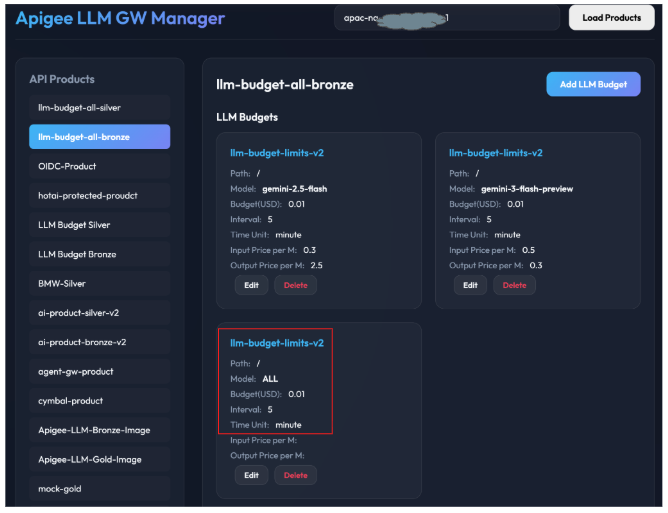
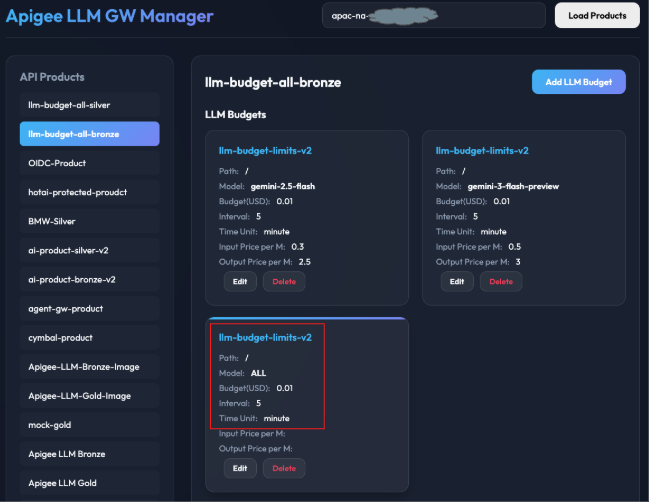
major change

diff --git a/apiproxy/resources/jsc/retrievePricingInfo.js b/apiproxy/resources/jsc/retrievePricingInfo.js
@@ -7,29 +7,29 @@
 //context.setVariable('ops_output_price', ops_output_price);
 
 
-// 1. JSON 문자열 데이터와 찾고자 하는 대상 모델명 가져오기
+// 1. Get JSON string data and target model name
 var jsonString = context.getVariable("verifyapikey.VA-VerifyAPIKey.__apigee_reserved_llm_operation_configs_attribute"); 
 var targetModel = context.getVariable("target_model");
 try {
-    // JSON 문자열을 자바스크립트 객체 배열로 변환
+    // Convert JSON string to JavaScript object array
     var dataArray = JSON.parse(jsonString);
     var targetAttributes = null;
-    // 2. 전체 배열을 순회하며 조건에 맞는 모델 찾기
+    // 2. Iterate through the array to find matching model
     for (var i = 0; i < dataArray.length; i++) {
         var item = dataArray[i];
         var operations = item.llmOperations;
         var isModelFound = false;
         
-        // llmOperations 배열 내부를 순회하며 model 값 비교
+        // Iterate through llmOperations array to match model
         if (operations && operations.length > 0) {
             for (var j = 0; j < operations.length; j++) {
                 if (operations[j].model === targetModel) {
                     isModelFound = true;
-                    break; // 내부 루프 탈출
+                    break; // Exit inner loop
                 }
             }
         }
-        // 원하는 모델을 찾았다면 해당 item의 attributes를 저장하고 외부 루프 탈출
+        // If matching model is found, save its attributes and exit outer loop
         if (isModelFound) {
             targetAttributes = item.attributes;
             break; 
@@ -37,13 +37,13 @@ try {
     }
     var inputPrice = 0;
     var outputPrice = 0;
-    // 3. 찾은 attributes 배열을 읽어서 필요한 값만 Apigee 변수로 세팅하기
+    // 3. Extract required values from matching attributes array and set Apigee variables
     if (targetAttributes) {
         for (var k = 0; k < targetAttributes.length; k++) {
             var attrName = targetAttributes[k].name;
             var attrValue = targetAttributes[k].value;
             
-            // input_price_per_100M 과 output_price_per_100M 만 추출 및 로컬 변수 저장
+            // Extract input_price_per_100M and output_price_per_100M and save to local variables
             if (attrName === 'input_price_per_100M') {
                 inputPrice = parseFloat(attrValue);
                 context.setVariable("model_attr." + attrName, attrValue);
@@ -54,11 +54,11 @@ try {
             }
         }
         
-        // 성공 여부 플래그
+        // Success flag
         context.setVariable("model_attr.found", "true");
         
     } else {
-        // 일치하는 모델이 없을 경우의 처리
+        // Handle case when no matching model is found
         context.setVariable("model_attr.found", "false");
     }
     // 4. Get usageMetadata and calculate price
@@ -71,6 +71,6 @@ try {
     context.setVariable("token_price_per_100M", String(totalPrice));
 
 } catch (e) {
-    // JSON 파싱 에러
+    // JSON parsing error
     context.setVariable("model_attr.error", e.message);
 }

diff --git a/budget-ui/static/app.js b/budget-ui/static/app.js
@@ -241,7 +241,6 @@ function openModal(mode, index = -1) {
                 }
             });
         }
-        
         const op = ops[index];
         editOpIndex.value = index;
         
@@ -391,7 +390,7 @@ async function saveOperation(e) {
         
         if (!response.ok) {
             const data = await response.json();
-            alert(`Failed to save: ${data.error || 'Unknown error'}`);
+            alert(`Failed to save: ${data.error || 'Unknown error'}\nDetails: ${data.details || ''}`);
             selectProduct(currentProduct.name);
         }
     } catch (error) {
@@ -453,7 +452,7 @@ async function deleteOperation(index) {
         
         if (!response.ok) {
             const data = await response.json();
-            alert(`Failed to delete: ${data.error || 'Unknown error'}`);
+            alert(`Failed to delete: ${data.error || 'Unknown error'}\nDetails: ${data.details || ''}`);
             selectProduct(currentProduct.name);
         }
     } catch (error) {

diff --git a/budget-ui/app.py b/budget-ui/app.py
@@ -19,7 +19,7 @@ app = Flask(__name__, static_url_path='', static_folder='static')
 
 def get_access_token():
     try:
-        # Cloud Run 환경의 Metadata Server에서 직접 토큰을 가져옵니다.
+        # Retrieve token directly from Cloud Run Metadata Server
         url = "http://metadata.google.internal/computeMetadata/v1/instance/service-accounts/default/token"
         headers = {"Metadata-Flavor": "Google"}
         resp = requests.get(url, headers=headers)

diff --git a/README.md b/README.md
@@ -21,13 +21,13 @@ It is an improvement upon [llm-budget-limits-v1](https://github.com/cbhong-ops/l
 -   `budget-ui/`: Web UI for managing LLM Operations and budgets (Python Flask)
     -   Calls Apigee APIs to manage `llmOperationGroup` in API Products.
 -   `notebook/`: Jupyter notebook for testing
-    -   `llm_budget_limits_v1.ipynb`: Test notebook designed to be run in Colab Enterprise.
+    -   `llm_budget_limits_v2.ipynb`: Test notebook designed to be run in Colab Enterprise.
 
 ---
 
 ## Architecture and Workflow
 
-### 1. Configuration via UI (`llm-budget-ui`)
+### 1. Configuration via UI (`llm-budget-ui-v2`)
 -   Users select an API Product in the UI and configure the budget and pricing in two steps:
     1.  **Global Budget Setup**: To manage the overall budget across all models, create a configuration with the **Model** name set to `ALL`. Specify the **Budget** (in USD), **Interval**, and **Time Unit**, without entering any unit prices.
     2.  **Model-Specific Pricing Setup**: For each individual model (e.g., `gemini-2.5-flash`), enter the specific token unit prices:
